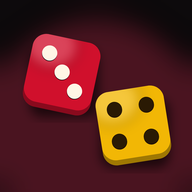
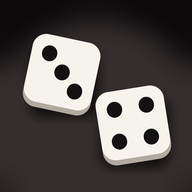
DARE Dice: white dice, arcade link, cleaner shake
- Main menu gets a '‹ DARE Arcade' button (shown on the arcade site).
- Wall line now reads 'Risk Takers always win.' instead of SOUTH SIDE.
- Dice are classic white with black pips (app icon updated to match).
- Shaking: both dice move together like they're cupped in a hand, each
  in its own lane far enough apart that they can't pass through each
  other; throws keep each die on its own side so paths never cross.

Claude-Session: https://claude.ai/code/session_01Bgn4CJ6QKYc6QwWea9iu1M

diff --git a/dice/index.html b/dice/index.html
@@ -49,6 +49,7 @@ input{-webkit-user-select:text;user-select:text}
 .titlebg.dim::after{background:rgba(11,10,11,.86)}
 .screen{position:relative;z-index:1}
 #title{justify-content:flex-end;align-items:center;gap:clamp(14px,2.6vh,24px);padding-block:20px 28px;text-align:center}
+.icon.toarcade{position:absolute;top:calc(env(safe-area-inset-top,0px) + 12px);left:0;z-index:3;text-decoration:none;background:rgba(14,12,14,.6);backdrop-filter:blur(6px);-webkit-backdrop-filter:blur(6px)}
 .brand{display:flex;flex-direction:column;align-items:center;gap:2px;margin-bottom:auto;padding-top:clamp(18px,6vh,60px)}
 .brand .pre{font:400 13px var(--slab);letter-spacing:.42em;padding-left:.42em;color:var(--ivory);opacity:.85}
 .wordmark{font:400 clamp(78px,25vw,136px)/.9 var(--marker);margin:0;color:var(--gold-hi);transform:rotate(-4deg);
@@ -187,6 +188,7 @@ input{-webkit-user-select:text;user-select:text}
 <div class="titlebg" id="titleBg" aria-hidden="true"></div>
 
 <section class="screen" id="title">
+  <a class="icon toarcade" href="/" id="toArcade">‹ DARE Arcade</a>
   <div class="brand">
     <span class="pre">DARE</span>
     <h1 class="wordmark">Dice</h1>
@@ -306,7 +308,7 @@ const ls={get(k){try{return localStorage.getItem(k)}catch(e){return null}},set(k
 /* ---------- dice faces ---------- */
 const PIPS={1:[[16,16]],2:[[8.5,8.5],[23.5,23.5]],3:[[8.5,8.5],[16,16],[23.5,23.5]],4:[[8.5,8.5],[23.5,8.5],[8.5,23.5],[23.5,23.5]],
   5:[[8.5,8.5],[23.5,8.5],[16,16],[8.5,23.5],[23.5,23.5]],6:[[8.5,8],[23.5,8],[8.5,16],[23.5,16],[8.5,24],[23.5,24]]};
-const COLORS=[['#d0102c','#fff6e6'],['#f2b705','#2a1a04']];
+const COLORS=[['#f6f3ec','#141113'],['#f6f3ec','#141113']]; // classic white dice, black pips
 const faceHTML=(f,ink)=>'<svg viewBox="0 0 32 32">'+PIPS[f].map(([x,y])=>'<circle cx="'+x+'" cy="'+y+'" r="'+(f==1?4.6:3.3)+'" fill="'+ink+'"/>').join('')+'</svg>';
 // (the title dice are the live 3D scene)
 
@@ -420,8 +422,8 @@ function brickTex(){
     g.shadowBlur=0;const tg=g.createLinearGradient(0,-45,0,45);tg.addColorStop(0,'#ffe59a');tg.addColorStop(.55,'#e2a72e');tg.addColorStop(1,'#a8671a');
     g.fillStyle=tg;g.fillText('DARE',0,0);
     g.fillStyle='#d99a26';
-    for(const [dx,len] of [[-96,38],[-58,22],[-12,46],[28,26],[76,40],[106,20]]){g.fillRect(dx,22,4,len);g.beginPath();g.arc(dx+2,22+len,3.5,0,7);g.fill()}
-    g.font='24px '+MARKER;g.fillStyle='rgba(241,232,214,.7)';g.fillText('SOUTH SIDE',96,62);
+    for(const [dx,len] of [[-96,26],[-58,16],[-12,30],[28,18],[76,28],[106,14]]){g.fillRect(dx,22,4,len);g.beginPath();g.arc(dx+2,22+len,3.5,0,7);g.fill()}
+    g.font='26px '+MARKER;g.fillStyle='rgba(241,232,214,.85)';g.fillText('Risk Takers always win.',0,78);
     g.restore();
     g.save();g.translate(w*.41,h*.7);g.rotate(.08);g.font='34px '+MARKER;g.fillStyle='rgba(208,16,44,.7)';g.fillText('7 · 11',0,0);g.restore();
     g.save();g.translate(w*.7,h*.24);g.rotate(-.1);g.font='28px '+MARKER;g.fillStyle='rgba(127,182,133,.65)';g.fillText('GET PAID',0,0);g.restore();
@@ -600,9 +602,12 @@ function frame(){
       m.quaternion.copy(a.qF).multiply(new THREE.Quaternion().setFromAxisAngle(a.axis,a.spin*(1-ee)));
       if(p>=1){d.anim=null;d.rest.copy(a.to);d.yaw=a.yaw}
     }else if(R3.rattle){
-      const t=now/1000;
-      m.position.set((i?.38:-.38)+Math.sin(t*37+i)*.12,2.1+Math.sin(t*41+i*2)*.15,2.6+Math.cos(t*33+i)*.1);
-      m.rotation.set(t*9+i,t*11,t*7+i*2);
+      // both dice move together like they're cupped in a hand, each in its own lane
+      const t=now/1000,jx=Math.sin(t*26)*.22,jy=Math.abs(Math.sin(t*31))*.28,jz=Math.cos(t*22)*.08;
+      m.position.set((i?.85:-.85)+jx*.8+Math.sin(t*19+i*2)*.05,2.0+jy,1.9+jz);
+      if(!d.spinAxis)d.spinAxis=V3(Math.random()-.5,Math.random()-.5,Math.random()-.5).normalize();
+      if(Math.random()<.04)d.spinAxis.set(Math.random()-.5,Math.random()-.5,Math.random()-.5).normalize();
+      m.quaternion.multiply(new THREE.Quaternion().setFromAxisAngle(d.spinAxis,dt*9));
     }
   });
   for(const s of R3.pot.concat(R3.leaving)){
@@ -635,14 +640,13 @@ function rollAnim(t,quiet){
   if(!R3)return sleep(300);
   R3.rattle=false;
   const now=performance.now();let longest=0;
-  const flip=Math.random()<.5;
   R3.dice.forEach((d,i)=>{
-    const f=+t[1+i],side=(i===0)!==flip?-1:1;
-    const x=side*(.45+Math.random()*.7),z=-1.3+Math.random()*1.7,yaw=(Math.random()-.5)*1.4;
-    const from=d.mesh.position.y>1.2?d.mesh.position.clone():V3(side*.4,1.6,3.8);
-    const dur=1250+Math.random()*300,delay=i*60;longest=Math.max(longest,dur+delay);
+    const f=+t[1+i],side=i===0?-1:1;
+    const x=side*(.72+Math.random()*.6),z=-1.3+Math.random()*1.7,yaw=(Math.random()-.5)*1.4;
+    const from=d.mesh.position.y>1.2?d.mesh.position.clone():V3(side*.9,1.6,3.8);
+    const dur=1250+Math.random()*300,delay=i*110;longest=Math.max(longest,dur+delay);
     d.hit=false;d.landed=false;
-    d.anim={t0:now+delay,dur,from,wall:V3(x*.8+(Math.random()-.5)*.6,.7,WALLZ+.75),to:V3(x,.5,z),yaw,
+    d.anim={t0:now+delay,dur,from,wall:V3(x*.95,.7,WALLZ+.75),to:V3(x,.5,z),yaw,
       qF:faceQuat(f,yaw),axis:V3(Math.random()-.5,Math.random()-.5,Math.random()-.5).normalize(),spin:16+Math.random()*9};
   });
   if(!quiet&&navigator.vibrate)try{navigator.vibrate([20,60,25])}catch(e){}
@@ -852,6 +856,7 @@ function render(){
 
 /* ---------- screens ---------- */
 function renderTitle(){
+  $('toArcade').hidden=!ONLINE_OK;
   for(const m of ['solo','online'])$('m-'+m).setAttribute('aria-pressed',menuMode===m);
   $('m-online').disabled=!ONLINE_OK;
   $('onlineSub').textContent=ONLINE_OK?'Shoot with a friend':'On the DARE Arcade';
